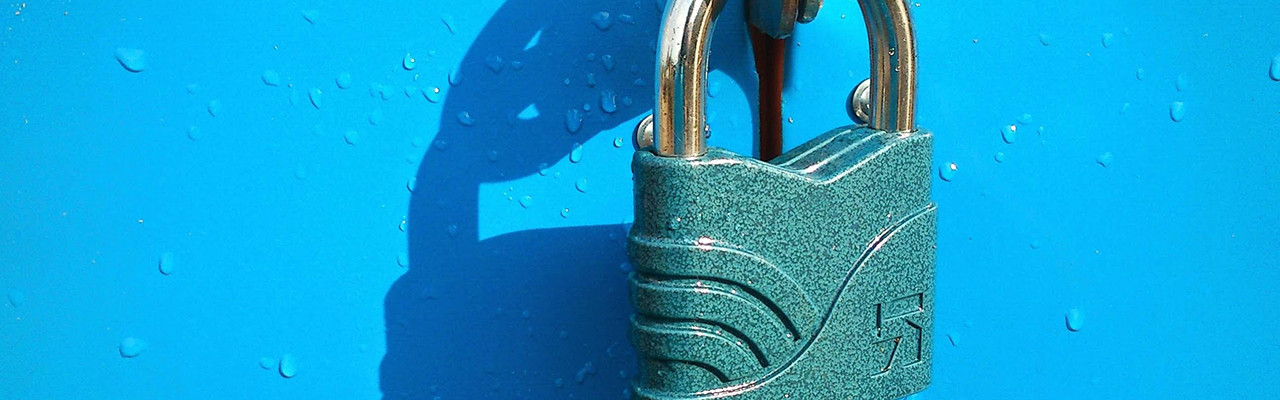
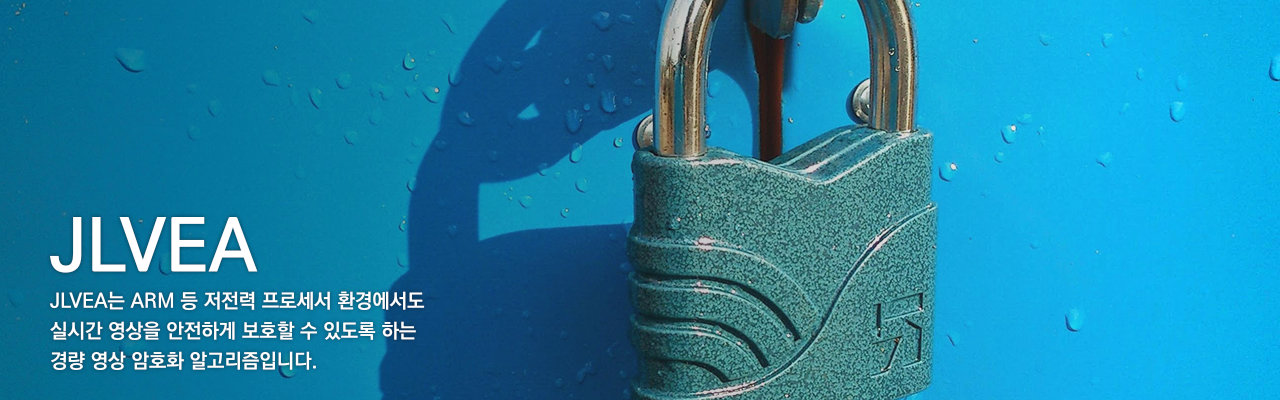
docs: Add profile, edit slide images and change background color

diff --git a/index.html b/index.html
@@ -13,15 +13,19 @@
     <script src="https://code.jquery.com/jquery-3.5.1.slim.js" integrity="sha256-DrT5NfxfbHvMHux31Lkhxg42LY6of8TaYyK50jnxRnM=" crossorigin="anonymous"></script>
     <script src="js/bodyalign.js"></script>
     <script src="js/prjslide.js"></script>
+    <script src="js/loaddocs.js"></script>
 </head>
 <body>
 <h1><img src="images/jdev.png" alt="jDev"></h1>
-<div id="menu">
-    <ul>
+<div>
+    <ul id="menu">
         <li><button>프로필</button></li>
-        <li><button>출판</button></li>
+        <li><button>프로젝트</button></li>
+        <li><button>논문</button></li>
+        <li><button>경력</button></li>
     </ul>
 </div>
+<h2>프로젝트</h2>
 <div id="prjslide">
     <div id="slide0">
         <img src="images/slide_jlvea.jpg">
@@ -30,13 +34,27 @@
         <img src="images/slide_sybileye.jpg">
     </div>
 </div>
-<div id="contract">
-    <h2>연락처</h2>
-    <ul>
-        <li><b>전화번호</b> +821099452723</li>
-        <li><b>이메일</b> junhyeok.dev@gmail.com</li>
-        <li><a href="https://www.linkedin.com/in/junhyeokdev/"><img src="images/linkedin.jpg"></a></li>
-    </ul>
+<div class="horizontal_divs">
+    <div id="profile">
+        <h2>프로필</h2>
+        <img src="images/profile.jpg">
+        <ul>
+            <li><h3>윤준혁</h3></li>
+            <li><b>학력</b> 한경대학교 일반대학원 컴퓨터응용수학부 석사</li>
+            <li><b>학력</b> 한경대학교 컴퓨터공학과 학사</li>
+            <li><b>경력</b> 한경대학교 컴퓨터시스템연구소 연구원</li>
+            <li><b>경력</b> 블록스미스 최고기술책임자(CTO)</li>
+        </ul>
+    </div>
+    <div id="contract">
+        <h2>연락처</h2>
+        <ul>
+            <li><b>전화번호</b> +821099452723</li>
+            <li><b>이메일</b> junhyeok.dev@gmail.com</li>
+            <li><a href="https://www.linkedin.com/in/junhyeokdev/"><img src="images/linkedin.jpg"></a></li>
+        </ul>
+    </div>
 </div>
+<div id="content"></div>
 </body>
 </html>

diff --git a/css/main.less b/css/main.less
@@ -1,10 +1,42 @@
-#contract {
-  ul {
-    li {
-      list-style-type: none;
-      margin-bottom: 5px;
-      img {
-        margin: 5px 0;
+.horizontal_divs {
+  display: block;
+
+  #contract {
+    display: inline-block;
+    vertical-align: top;
+    margin-right: 20px;
+    ul {
+      li {
+        list-style-type: none;
+        margin-bottom: 5px;
+        img {
+          margin: 5px 0;
+        }
+      }
+    }
+  }
+
+  #profile {
+    display: inline-block;
+    vertical-align: top;
+    margin-right: 20px;
+    img {
+      vertical-align: top;
+      display: inline-block;
+      margin-right: 10px;
+      height: 150px;
+    }
+    ul {
+      display: inline-block;
+      li {
+        list-style-type: none;
+        margin-bottom: 5px;
+        h3 {
+          font-family: 'Nanum Gothic', sans-serif;
+          font-size: 1.1em;
+          font-weight: bold;
+          margin-bottom: 10px;
+        }
       }
     }
   }

diff --git a/css/main.css b/css/main.css
@@ -1,9 +1,41 @@
-#contract ul li {
+.horizontal_divs {
+  display: block;
+}
+.horizontal_divs #contract {
+  display: inline-block;
+  vertical-align: top;
+  margin-right: 20px;
+}
+.horizontal_divs #contract ul li {
   list-style-type: none;
   margin-bottom: 5px;
 }
-#contract ul li img {
+.horizontal_divs #contract ul li img {
   margin: 5px 0;
+}
+.horizontal_divs #profile {
+  display: inline-block;
+  vertical-align: top;
+  margin-right: 20px;
+}
+.horizontal_divs #profile img {
+  vertical-align: top;
+  display: inline-block;
+  margin-right: 10px;
+  height: 150px;
+}
+.horizontal_divs #profile ul {
+  display: inline-block;
+}
+.horizontal_divs #profile ul li {
+  list-style-type: none;
+  margin-bottom: 5px;
+}
+.horizontal_divs #profile ul li h3 {
+  font-family: 'Nanum Gothic', sans-serif;
+  font-size: 1.1em;
+  font-weight: bold;
+  margin-bottom: 10px;
 }
 #prjslide {
   margin-bottom: 10px;

diff --git a/css/menu.less b/css/menu.less
@@ -1,20 +1,21 @@
 #menu {
-  ul {
-    width: 1280px;
-    background-color: #333333;
-    li {
-      display: inline-block;
-      button {
-        height: 32px;
-        padding: 0 20px;
-        background-color: #333333;
-        border: none;
-        font-family: 'Nanum Gothic', sans-serif;
-        font-size: 1em;
-        color: white;
-        &:hover {
-          background-color: #487cdb;
-        }
+  width: 1280px;
+  background-color: #222222;
+  margin-bottom: 20px;
+
+  li {
+    display: inline-block;
+
+    button {
+      color: #ffffff;
+      padding: 10px 20px;
+      background-color: #222222;
+      border: 1px black solid;
+      font-family: 'Nanum Gothic', sans-serif;
+      font-size: 1em;
+
+      &:hover {
+        background-color: #487cdb;
       }
     }
   }

diff --git a/css/menu.css b/css/menu.css
@@ -1,20 +1,20 @@
-#menu ul {
+#menu {
   width: 1280px;
-  background-color: #333333;
+  background-color: #222222;
+  margin-bottom: 20px;
 }
-#menu ul li {
+#menu li {
   display: inline-block;
 }
-#menu ul li button {
-  height: 32px;
-  padding: 0 20px;
-  background-color: #333333;
-  border: none;
+#menu li button {
+  color: #ffffff;
+  padding: 10px 20px;
+  background-color: #222222;
+  border: 1px black solid;
   font-family: 'Nanum Gothic', sans-serif;
   font-size: 1em;
-  color: white;
 }
-#menu ul li button:hover {
+#menu li button:hover {
   background-color: #487cdb;
 }
 /*# sourceMappingURL=menu.css.map */

diff --git a/css/title.css b/css/title.css
@@ -3,8 +3,14 @@ h1 {
 }
 h2 {
   font-family: 'Nanum Gothic', sans-serif;
-  font-size: 1.2em;
+  font-size: 1.3em;
   font-weight: bold;
-  margin-bottom: 7px;
+  margin-bottom: 10px;
+}
+h3 {
+  font-family: 'Nanum Gothic', sans-serif;
+  font-size: 1.3em;
+  font-weight: bold;
+  margin-bottom: 10px;
 }
 /*# sourceMappingURL=title.css.map */

diff --git a/css/title.less b/css/title.less
@@ -4,7 +4,14 @@ h1 {
 
 h2 {
   font-family: 'Nanum Gothic', sans-serif;
-  font-size: 1.2em;
+  font-size: 1.3em;
   font-weight: bold;
-  margin-bottom: 7px;
+  margin-bottom: 10px;
+}
+
+h3 {
+  font-family: 'Nanum Gothic', sans-serif;
+  font-size: 1.3em;
+  font-weight: bold;
+  margin-bottom: 10px;
 }

diff --git a/js/loaddocs.js b/js/loaddocs.js
@@ -1,0 +1,10 @@
+$(window).on("load", () => {
+    let menus = $("#menu > li");
+    let docs = ["profile", "publications"];
+
+    for (var i = 0; i < menus.length; i++) {
+        menus[i].on("click", (i) => {
+            $("#content").load("docs/" + docs[i] + ".html")
+        })
+    }
+});

diff --git a/css/general.css b/css/general.css
@@ -2,8 +2,11 @@
   margin: 0;
   padding: 0;
   font-size: 1em;
+  color: #ffffff;
 }
 body {
   width: 1280px;
+  padding: 10px 0;
+  background-color: #222222;
 }
 /*# sourceMappingURL=general.css.map */

diff --git a/css/general.less b/css/general.less
@@ -3,8 +3,11 @@
   padding: 0;
 
   font-size: 1em;
+  color: #ffffff;
 }
 
 body {
   width: 1280px;
+  padding: 10px 0;
+  background-color: #222222;
 }
